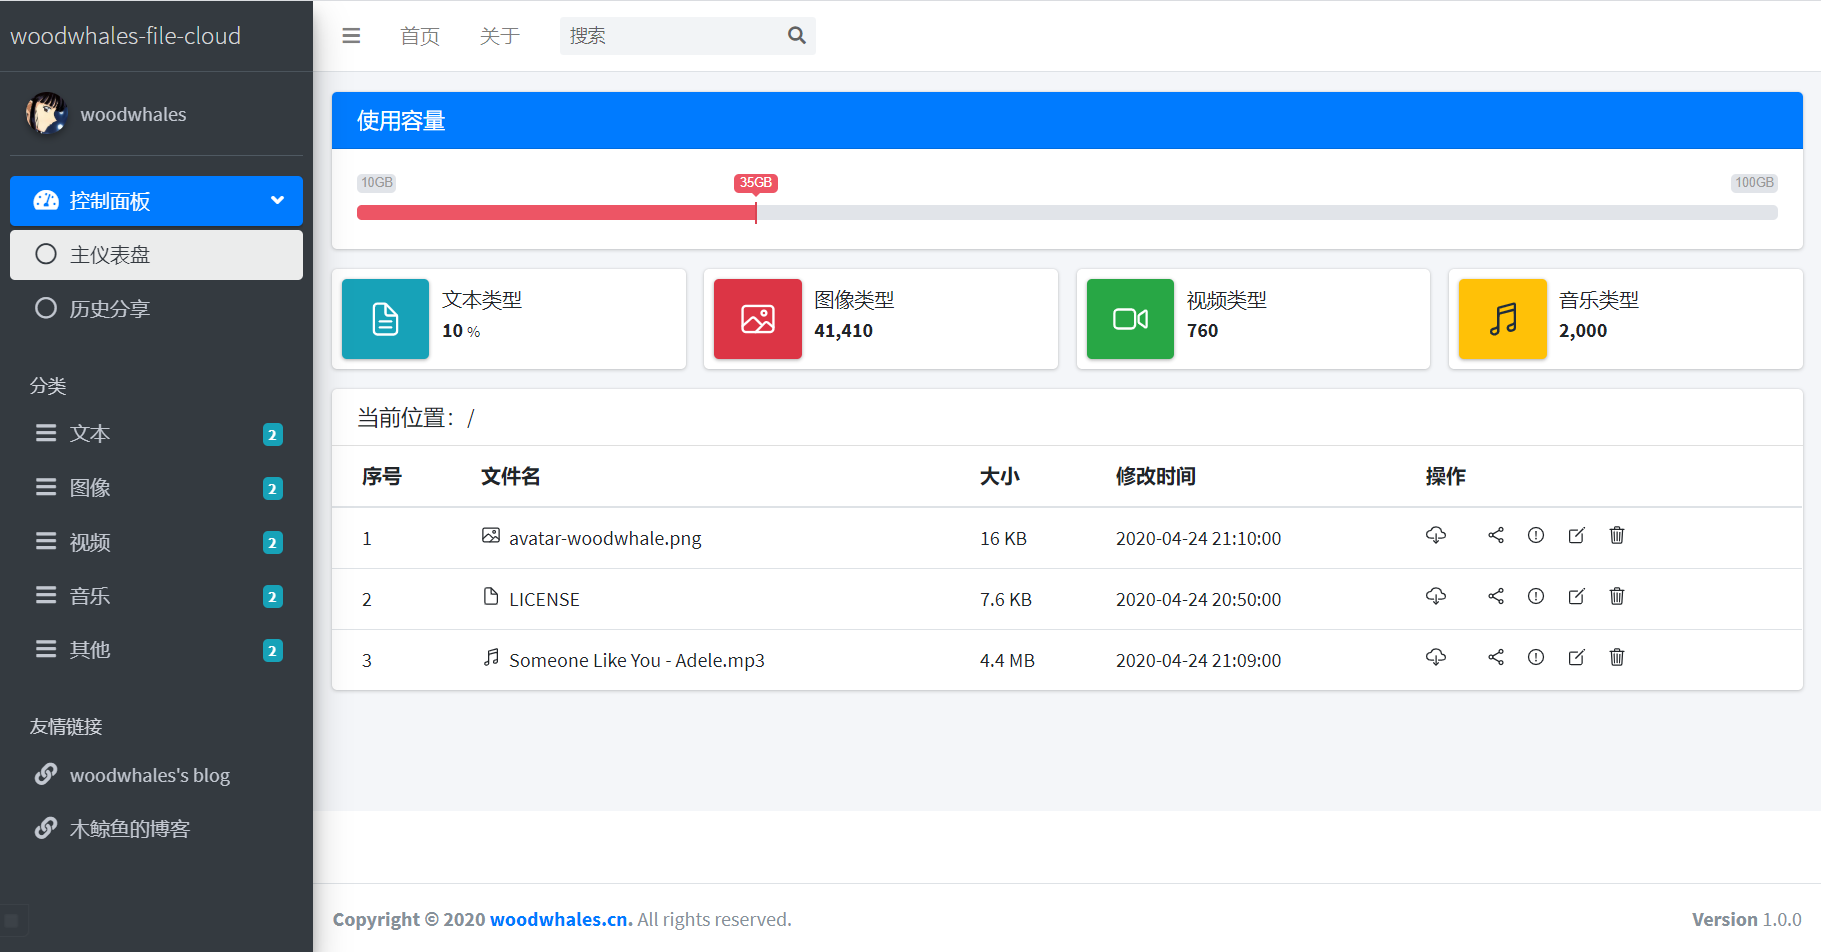
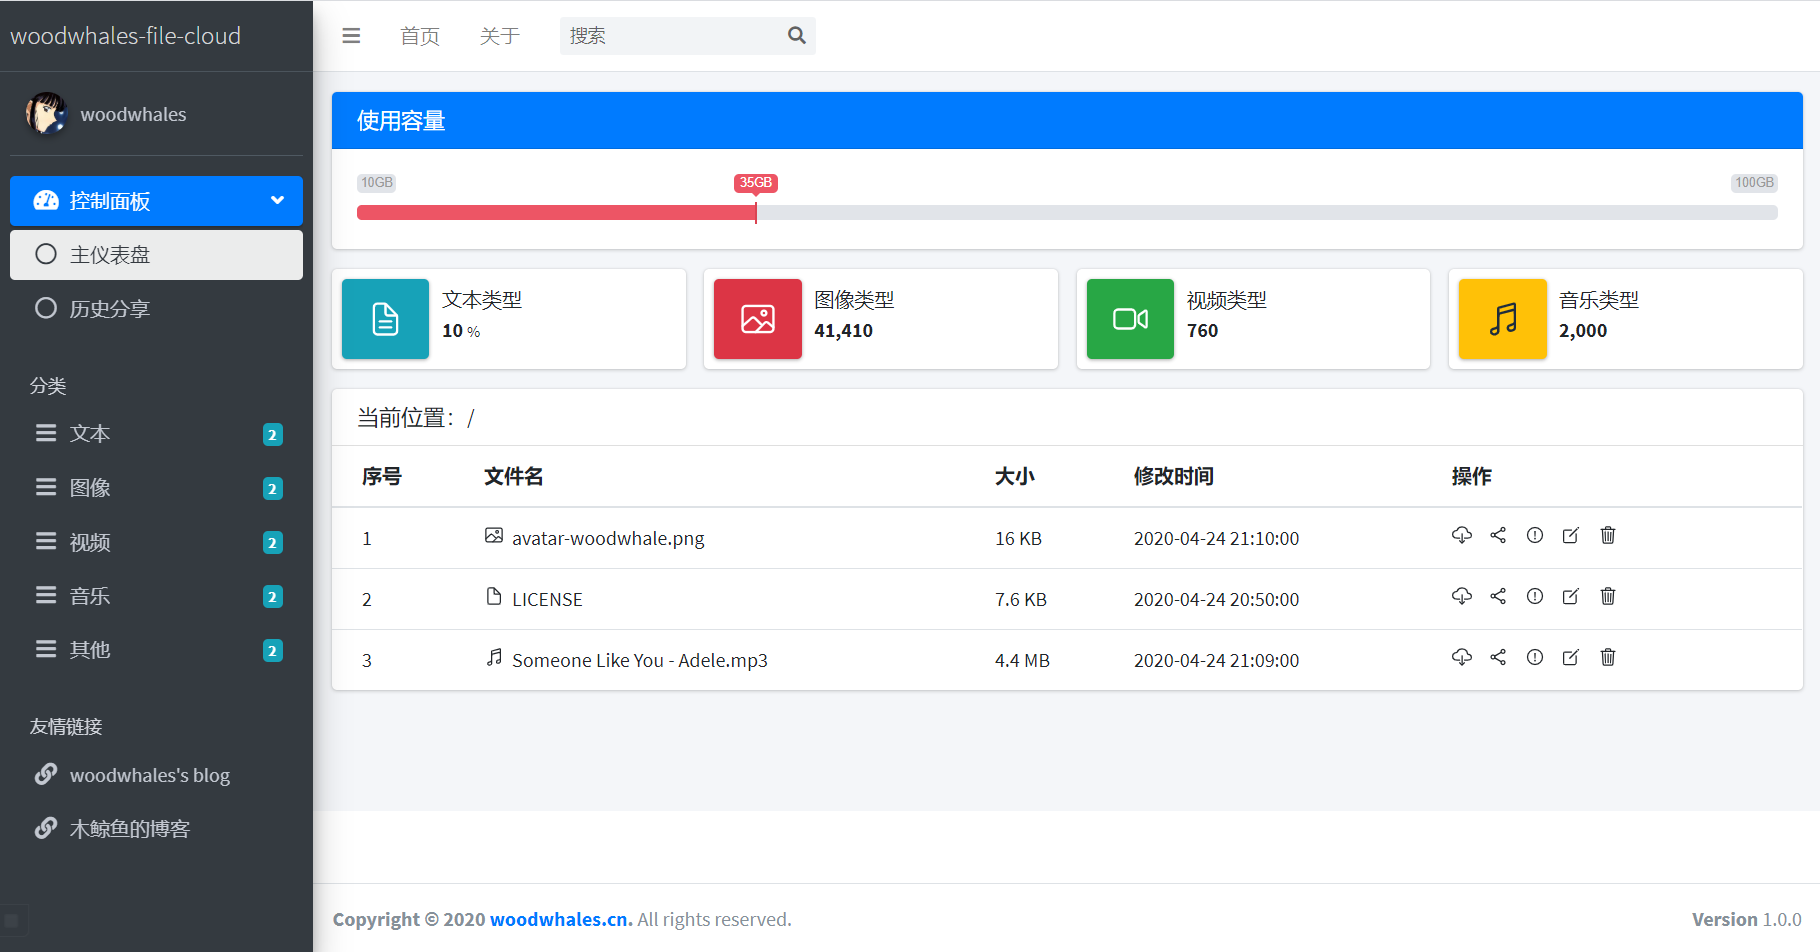
1. added operation-btn css 2. added JsonTool 3. updated readme.md

diff --git a/src/main/resources/templates/index.html b/src/main/resources/templates/index.html
@@ -9,6 +9,8 @@
 
   <!-- Font Awesome Icons -->
   <link rel="stylesheet" href="plugins/fontawesome-free/css/all.min.css">
+
+  <link rel="stylesheet" href="css/main.css">
   
   <link rel="stylesheet" type="text/css" media="screen" href="plugins/iconic/ionicons.min.css">
   
@@ -165,12 +167,12 @@
 									<td th:text="${file.fileSize}">文件大小</td>
 									<td><div class="sparkbar" data-color="#00a65a" data-height="20" th:text="${file.updateTime}">文件修改时间</div></td>
 									<td>
-									   <ion-icon th:if=" ${#bools.isTrue(file.file)}" name="cloud-download-outline" class="opreate-btn" style="cursor:pointer;" data-opreation='download' th:data-name="${file.name}" th:data-path="${file.path}" th:data-code="${file.fileCode}"></ion-icon>&nbsp;&nbsp;&nbsp;&nbsp;
-									   <ion-icon th:if=" ${#bools.isTrue(file.directory)}"></ion-icon>&nbsp;&nbsp;&nbsp;&nbsp;
-									   <ion-icon name="share-social-outline" class="opreate-btn" style="cursor:pointer;" data-opreation='share' th:data-code="${file.fileCode}"></ion-icon>&nbsp;&nbsp;&nbsp;&nbsp;
-									   <ion-icon name="alert-circle-outline" class="opreate-btn" style="cursor:pointer;" data-opreation='info' th:data-code="${file.fileCode}"></ion-icon>&nbsp;&nbsp;&nbsp;&nbsp;
-									   <ion-icon name="create-outline" class="opreate-btn" style="cursor:pointer;" data-opreation='edit' th:data-code="${file.fileCode}"></ion-icon>&nbsp;&nbsp;&nbsp;&nbsp;
-									   <ion-icon name="trash-outline" class="opreate-btn" style="cursor:pointer;" data-opreation='delete' th:data-code="${file.fileCode}"></ion-icon>
+									   <ion-icon th:if="${#bools.isTrue(file.file)}" name="cloud-download-outline" class="opreate-btn opreation-class" style="cursor:pointer;" data-opreation='download' th:data-name="${file.name}" th:data-path="${file.path}" th:data-code="${file.fileCode}"></ion-icon>
+									   <ion-icon th:if="${#bools.isTrue(file.directory)}" class="opreation-class"></ion-icon>
+									   <ion-icon name="share-social-outline" class="opreate-btn opreation-class" style="cursor:pointer;" data-opreation='share' th:data-code="${file.fileCode}"></ion-icon>
+									   <ion-icon name="alert-circle-outline" class="opreate-btn opreation-class" style="cursor:pointer;" data-opreation='info' th:data-code="${file.fileCode}"></ion-icon>
+									   <ion-icon name="create-outline" class="opreate-btn opreation-class" style="cursor:pointer;" data-opreation='edit' th:data-code="${file.fileCode}"></ion-icon>
+									   <ion-icon name="trash-outline" class="opreate-btn opreation-class" style="cursor:pointer;" data-opreation='delete' th:data-code="${file.fileCode}"></ion-icon>
 									</td>
 								</tr>
 							</tbody>

diff --git a/src/main/resources/templates/commons/bar.html b/src/main/resources/templates/commons/bar.html
@@ -1,5 +1,5 @@
 <!DOCTYPE html>
-<html>
+<html xmlns:th="http://www.thymeleaf.org">
 <head>
 <meta charset="UTF-8">
 <title></title>
@@ -35,7 +35,7 @@
 		<strong>Copyright &copy; 2020 <a href="https://woodwhales.cn">woodwhales.cn</a>.
 		</strong> All rights reserved.
 		<div class="float-right d-none d-sm-inline-block">
-			<b>Version</b> 1.0.0
+			<b>Version</b> <span th:text="${version}"></span>
 		</div>
 	</footer>
 

diff --git a/src/main/resources/static/css/main.css b/src/main/resources/static/css/main.css
@@ -1,0 +1,4 @@
+@charset "UTF-8";
+.opreation-class {
+	margin-right: 10px;
+}

diff --git a/src/main/java/org/woodwhales/cloud/controller/IndexController.java b/src/main/java/org/woodwhales/cloud/controller/IndexController.java
@@ -10,6 +10,7 @@ import javax.servlet.http.HttpServletResponse;
 import org.apache.commons.collections4.CollectionUtils;
 import org.apache.commons.lang3.StringUtils;
 import org.springframework.beans.factory.annotation.Autowired;
+import org.springframework.beans.factory.annotation.Value;
 import org.springframework.stereotype.Controller;
 import org.springframework.ui.Model;
 import org.springframework.web.bind.annotation.GetMapping;
@@ -17,6 +18,7 @@ import org.springframework.web.servlet.mvc.support.RedirectAttributes;
 import org.woodwhales.cloud.controller.request.ListRequestParam;
 import org.woodwhales.cloud.dto.FileModel;
 import org.woodwhales.cloud.ftp.FtpService;
+import org.woodwhales.cloud.util.JsonTool;
 import org.woodwhales.cloud.vo.FileVO;
 
 import lombok.extern.slf4j.Slf4j;
@@ -27,6 +29,9 @@ public class IndexController {
 	
 	@Autowired
 	private FtpService ftpService;
+	
+	@Value("${version}")
+	private String version;
 
 	@GetMapping({"", "/", "/index"})
 	public String index(Model model, ListRequestParam listRequestParam, HttpServletRequest request, HttpServletResponse response, RedirectAttributes redirectAttributes) throws Exception {
@@ -40,8 +45,10 @@ public class IndexController {
 		}
 		
 		List<FileModel> files = ftpService.lsFiles(currentPath, listRequestParam.isToParent());
-		log.info("list = {}", files);
+		log.info("invoke ftpService to list files, path = {}, result = {}", currentPath, JsonTool.toJsonString(files));
+
 		model.addAttribute("currentPath", currentPath);
+		model.addAttribute("version", version);
 		
 		if(CollectionUtils.isNotEmpty(files)) {
 			model.addAttribute("files", files.stream().map(FileVO::convert).collect(Collectors.toList()));

diff --git a/src/main/java/org/woodwhales/cloud/dto/FileModel.java b/src/main/java/org/woodwhales/cloud/dto/FileModel.java
@@ -5,7 +5,7 @@ import java.util.Objects;
 
 import org.apache.commons.net.ftp.FTPFile;
 import org.woodwhales.cloud.enums.FileTypeEnmu;
-import org.woodwhales.cloud.util.FileTools;
+import org.woodwhales.cloud.util.FileTool;
 
 import cn.hutool.core.lang.UUID;
 import lombok.AllArgsConstructor;
@@ -59,14 +59,14 @@ public class FileModel {
 						 .fileCode(UUID.randomUUID().toString())
 						 .name(ftpFile.getName())
 						 .path(path)
-						 .type(FileTools.getFileType(ftpFile.getName()))
-						 .fileType(FileTypeEnmu.match(FileTools.getFileType(ftpFile.getName())))
+						 .type(FileTool.getFileType(ftpFile.getName()))
+						 .fileType(FileTypeEnmu.match(FileTool.getFileType(ftpFile.getName())))
 						 .fileSize(ftpFile.getSize())
-						 .formatedFileSize(FileTools.readableFileSize(ftpFile.getSize()))
+						 .formatedFileSize(FileTool.readableFileSize(ftpFile.getSize()))
 						 .file(ftpFile.isFile())
 						 .directory(ftpFile.isDirectory())
 						 .updateTime(ftpFile.getTimestamp().getTime())
-						 .formatedUpdateTime(FileTools.formatFileUpdateTime(ftpFile))
+						 .formatedUpdateTime(FileTool.formatFileUpdateTime(ftpFile))
 						 .build();
 	}
 }

diff --git a/src/main/java/org/woodwhales/cloud/vo/FileVO.java b/src/main/java/org/woodwhales/cloud/vo/FileVO.java
@@ -4,7 +4,7 @@ import org.apache.commons.lang3.StringUtils;
 import org.springframework.beans.BeanUtils;
 import org.woodwhales.cloud.dto.FileModel;
 import org.woodwhales.cloud.enums.FileTypeEnmu;
-import org.woodwhales.cloud.util.FileTools;
+import org.woodwhales.cloud.util.FileTool;
 
 import lombok.AllArgsConstructor;
 import lombok.Builder;
@@ -56,7 +56,7 @@ public class FileVO {
 		BeanUtils.copyProperties(fileModel, fileVO);
 		fileVO.setFileSize(fileModel.getFormatedFileSize());
 		fileVO.setUpdateTime(fileModel.getFormatedUpdateTime());
-		fileVO.setIoniconName(FileTools.getIoniconName(fileModel));
+		fileVO.setIoniconName(FileTool.getIoniconName(fileModel));
 		fileVO.setFilePath(StringUtils.equals(fileModel.getPath(), "/") ? fileModel.getPath() + fileModel.getName() : fileModel.getPath() + "/" + fileModel.getName());
 		return fileVO;
 	}

diff --git a/src/test/java/org/woodwhales/cloud/FileToolsTest.java b/src/test/java/org/woodwhales/cloud/FileToolsTest.java
@@ -4,13 +4,13 @@ import static org.junit.jupiter.api.Assertions.assertEquals;
 
 import org.apache.commons.lang3.StringUtils;
 import org.junit.jupiter.api.Test;
-import org.woodwhales.cloud.util.FileTools;
+import org.woodwhales.cloud.util.FileTool;
 
 public class FileToolsTest {
 
 	@Test
 	public void test() {
-		String fileType = FileTools.getFileType("aa.txt.ss");
+		String fileType = FileTool.getFileType("aa.txt.ss");
 		assertEquals("ss", fileType);
 		
 		System.out.println(StringUtils.substringBeforeLast("/css", "/"));

diff --git a/src/main/java/org/woodwhales/cloud/util/FileTool.java b/src/main/java/org/woodwhales/cloud/util/FileTool.java
@@ -11,13 +11,13 @@ import cn.hutool.core.date.DatePattern;
 import cn.hutool.core.date.DateUtil;
 import cn.hutool.core.util.NumberUtil;
 
-public class FileTools {
+public class FileTool {
 	
 	private final static String[] units = new String[]{"B", "KB", "MB", "GB", "TB"};
 	private final static String fileSizeFormat = "#,##0.#";
 	private final static String emptySize = "-";
 
-	private FileTools() {}
+	private FileTool() {}
 	
 	/**
 	 * 文件字节大小转换，带单位

diff --git a/src/main/java/org/woodwhales/cloud/util/JsonTool.java b/src/main/java/org/woodwhales/cloud/util/JsonTool.java
@@ -1,0 +1,12 @@
+package org.woodwhales.cloud.util;
+
+import com.google.gson.Gson;
+
+public class JsonTool {
+
+	private JsonTool() {}
+	
+	public static String toJsonString(Object object) {
+		return new Gson().toJson(object);
+	}
+}

diff --git a/README.md b/README.md
@@ -60,3 +60,12 @@ UI交互：
 2. 可展示文件列表，可点击进入文件夹，可返回上级目录，可点击下载按钮下载文件。 
 
 后台功能：可列表展示、更新、上传文件，对文件类型进行分类。
+
+### 1.0.1_2020-04-24
+
+UI交互：
+
+1. 操作图标间距统一；
+2. 系统版本从 pom 文件中动态读取
+
+后台功能：封装 gson 工具中对象转json字符串方法
